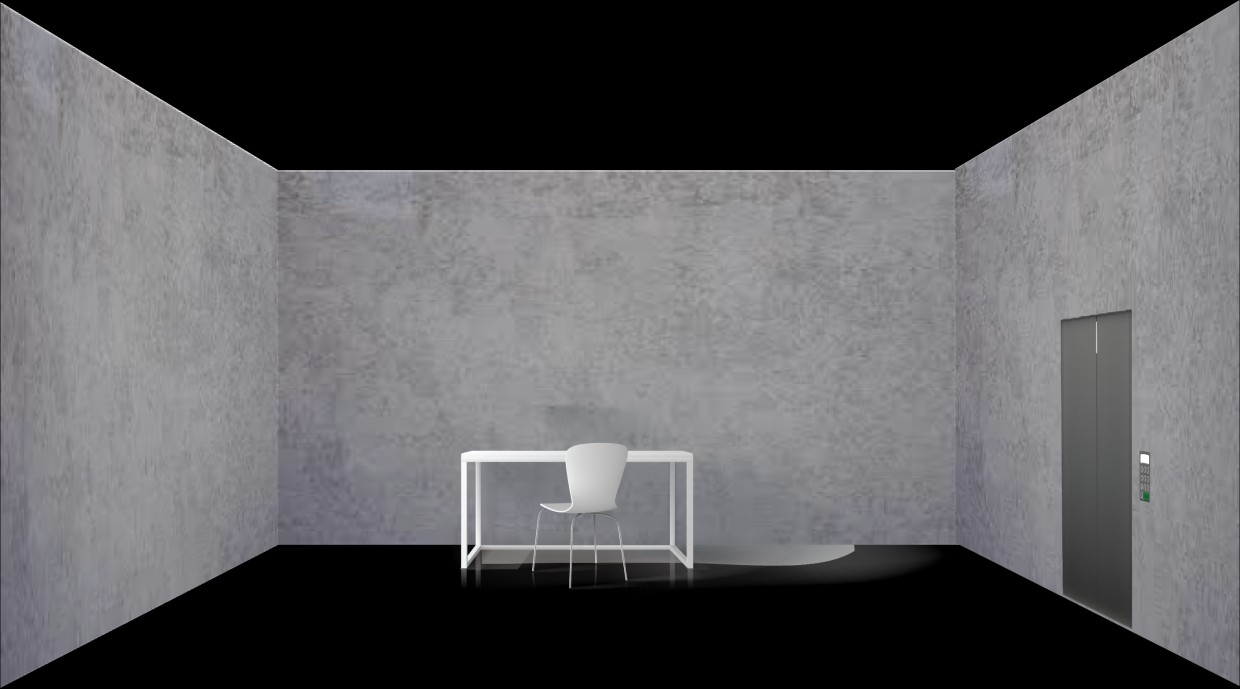
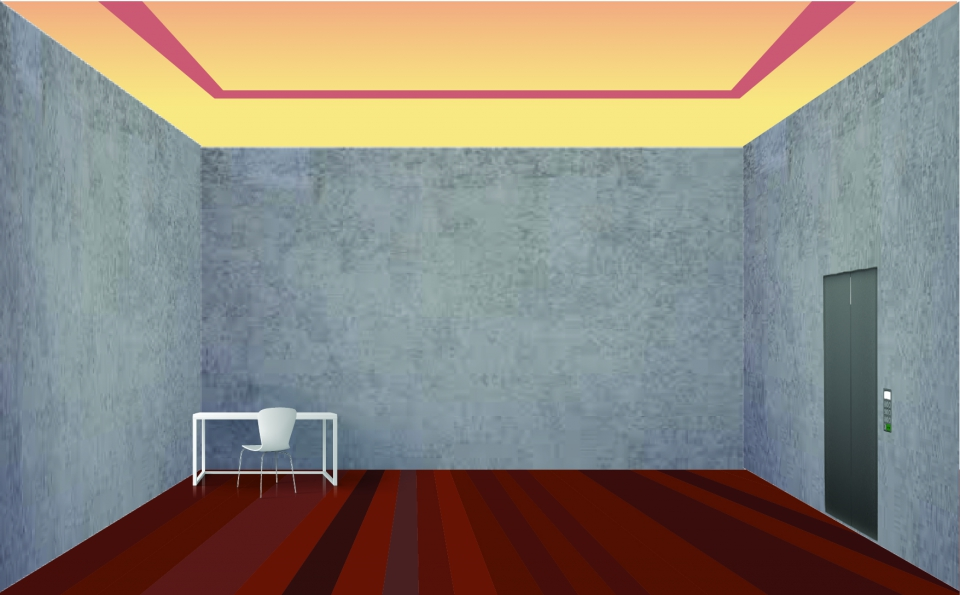
LevelOne + LevelTwo
Images fixed

diff --git a/src/views/LevelTwo/LevelTwo.js b/src/views/LevelTwo/LevelTwo.js
@@ -5,12 +5,14 @@ import ReactTerminal from 'react-terminal-component';
 import { EmulatorState, FileSystem, OutputFactory, Outputs, History, defaultCommandMapping, CommandMapping } from 'javascript-terminal';
 import { Form, FormGroup, Input } from 'reactstrap';
 import ReactGA from 'react-ga';
+import RoomTwo from './leveltwo.jpg';
+const LevelOne = React.lazy(() => import('views/LevelOne'));
 
 function initializeReactGA() {
 	ReactGA.initialize('UA-104887157-5');
 	ReactGA.pageview('/leveltwo');
 }
-export default class LevelTwo extends Component {
+class Terminal extends Component {
 	constructor(props) {
 		super(props);
 		this.state = {
@@ -50,13 +52,13 @@ export default class LevelTwo extends Component {
 				'/bin/passwd': { content: 'You are not allowed to access this file' },
 				'/etc': {},
 				'/Network': {},
-				'/NetWork/netstat': { content: 'You are not allowed to access this file' },
+				'/Network/netstat': { content: 'You are not allowed to access this file' },
 				'/OS': {},
 				'/OS/boot': { content: 'Contains boot information' },
 				'/home/README': { content: 'This is a text file' },
 				'/home/users/hacker': {},
 				'/home/user/hacker/passwd': { content: 'You fool!!!' },
-				'/etc/passwd': { content: "Does'nt work like unix :)" }
+				'/etc/passwd': { content: "A*&^vdcvW$" }
 			}),
 			'commandMapping': CommandMapping.create({
 				...defaultCommandMapping,
@@ -150,5 +152,44 @@ export default class LevelTwo extends Component {
 				</div>
 			</React.Fragment>
 		);
+	}
+}
+
+export default class LevelTwo extends Component {
+	constructor(props) {
+		super(props);
+		this.state = {
+			terminal: false
+		};
+
+		this.toggle = this.toggle.bind(this);
+	}
+
+	toggle() {
+		this.setState(prevState => ({
+			terminal: !prevState.terminal
+		}));
+	}
+
+	render() {
+		if (this.state.terminal === false) {
+			return (
+				<div >
+					<img src={RoomTwo} alt='Room One' useMap='#image-door' />
+					<map name="image-door">
+						{/* <area alt="door" title="door" coords="825,279,825,512,878,541,877,271" shape="poly" onClick={this.toggle} /> */}
+						{/* <area alt="door2" title="door2" coords="373,309,494,520" shape="rect" /> */}
+						<area alt="terminal" title="terminal" coords="581,433,622,457" shape="rect" onClick={this.toggle} />
+						<area alt="door1" title="door1" coords="72,308,74,615,118,578,116,310" shape="poly" />
+					</map>
+				</div>
+			)
+		} else {
+			return (
+				<div>
+					<Terminal onClick={this.toggle} />
+				</div>
+			)
+		}
 	}
 }

diff --git a/src/views/LevelOne/LevelOne.js b/src/views/LevelOne/LevelOne.js
@@ -98,7 +98,7 @@ export default class LevelOne extends Component {
 				<div className='levelOne'>
 					<img src={RoomOne} alt='Room One' useMap='#image-door' />
 					<map name="image-door">
-						<area alt="door" title="door" coords="1061,321,1064,595,1133,630,1131,310" shape="poly" onClick={this.toggle} />
+						<area alt="door" title="door" coords="825,279,825,512,878,541,877,271" shape="poly" onClick={this.toggle} />
 					</map>
 				</div>
 			)

diff --git a/src/views/LevelTwo/LevelTwo.css b/src/views/LevelTwo/LevelTwo.css
@@ -1,0 +1,7 @@
+.levelTwo {
+    position: static;
+    justify-content: center;
+    align-items: center;
+    max-width: 100;
+    text-align: center;
+}
